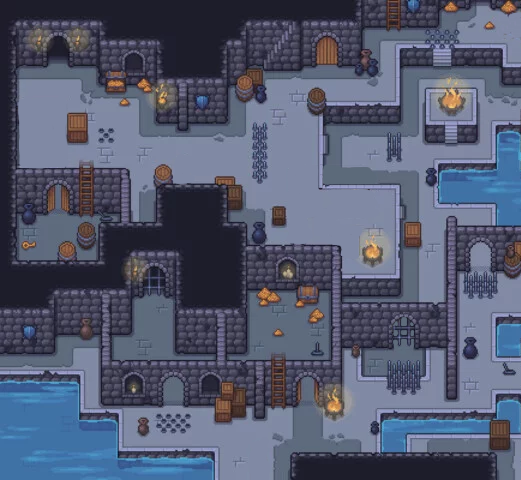
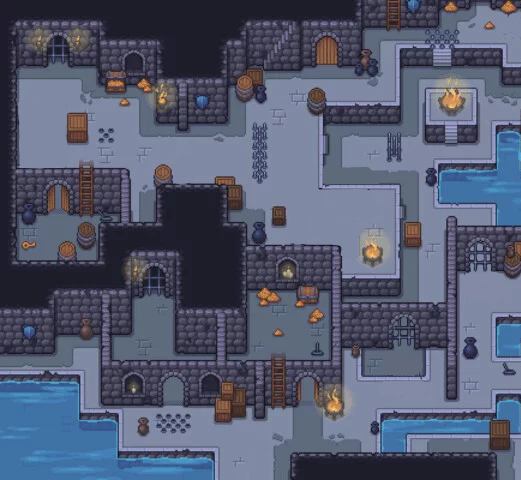
added logic to third dungeon

Changed region(s): [[0.8906, 0.5, 0.952, 0.625], [0.737, 0.75, 0.8292, 0.8438], [0.0921, 0.0625, 0.1228, 0.125]]

diff --git a/Game1.cs b/Game1.cs
@@ -20,7 +20,7 @@ namespace Pain_and_Suffering
         private GraphicsDeviceManager _graphics;
         private SpriteBatch _spriteBatch;
 
-        Texture2D characterSpriteSheet, rectangleTexture, dungeonTexture, tunnelTexture, dungeon2Texture;
+        Texture2D characterSpriteSheet, rectangleTexture, dungeonTexture, tunnelTexture, dungeon2Texture, dungeon3Texture;
         List<Rectangle> barriers, barriers2;
 
         KeyboardState keyboardState;
@@ -29,7 +29,7 @@ namespace Pain_and_Suffering
 
         Color buttonColor;
 
-        Rectangle window, playerCollisionRect, playerDrawRect, leverRect, buttonRect, secondButtonRect, lockedDoor;
+        Rectangle window, playerCollisionRect, playerDrawRect, leverRect, buttonRect, secondButtonRect, lockedDoor, exitDoor;
 
         int rows, columns, //number of rows/columns in the spritesheet
             frame, //frame number (column) in the sequence to draw
@@ -163,6 +163,7 @@ namespace Pain_and_Suffering
             dungeonTexture = Content.Load<Texture2D>("dungeon 1");
             tunnelTexture = Content.Load<Texture2D>("dungeon tunnel");
             dungeon2Texture = Content.Load<Texture2D>("dungeon 2");
+            dungeon3Texture = Content.Load<Texture2D>("dungeon 3");        
         }
 
         protected override void Update(GameTime gameTime)
@@ -302,6 +303,43 @@ namespace Pain_and_Suffering
                     screen = Screen.Dungeon3;
             }
 
+            else if (screen == Screen.Dungeon3)
+            {
+                if (time > frameSpeed && playerDirection != Vector2.Zero)
+                {
+                    time = 0f;
+                    frame = (frame + 1) % frames;  // ensures frame is a value 0-8
+                }
+
+                SetPlayerDirection();
+                playerLocation += playerDirection * speed;
+                UpdateRects();
+
+                //Collision detection with window
+                if (!window.Contains(playerCollisionRect))
+                {
+                    playerLocation -= playerDirection * speed;
+                    UpdateRects();
+                }
+
+                //Collision detection with barriers
+                foreach (Rectangle barrier in barriers)
+                    if (barrier.Intersects(playerCollisionRect))
+                    {
+                        playerLocation -= playerDirection * speed;
+                        UpdateRects();
+                    }
+
+                foreach (Rectangle barrier2 in barriers2)
+                    if (barrier2.Intersects(playerCollisionRect))
+                    {
+                        playerLocation -= playerDirection * speed;
+                        UpdateRects();
+                    }
+
+                base.Update(gameTime);
+            }
+
 
         }
 
@@ -340,10 +378,10 @@ namespace Pain_and_Suffering
                     new Rectangle(frame * width, directionRow * height, width, height), Color.White);
 
                 //drawing barriers - will be commented out in final version
-                _spriteBatch.Draw(rectangleTexture, lockedDoor, Color.Green);
+                //_spriteBatch.Draw(rectangleTexture, lockedDoor, Color.Green);
 
-                foreach (Rectangle barrier in barriers)
-                    _spriteBatch.Draw(rectangleTexture, barrier, Color.Black);
+                //foreach (Rectangle barrier in barriers)
+                //    _spriteBatch.Draw(rectangleTexture, barrier, Color.Black);
 
                 //if (leverFlipped)
                 //{
@@ -355,8 +393,8 @@ namespace Pain_and_Suffering
             {
                 _spriteBatch.Draw(dungeon2Texture, window, Color.White);
 
-                foreach (Rectangle barrier2 in barriers2)
-                    _spriteBatch.Draw(rectangleTexture, barrier2, Color.White);
+                //foreach (Rectangle barrier2 in barriers2)
+                //    _spriteBatch.Draw(rectangleTexture, barrier2, Color.White);
 
                 _spriteBatch.Draw(characterSpriteSheet, playerDrawRect,
                     new Rectangle(frame * width, directionRow * height, width, height), Color.White);
@@ -364,7 +402,10 @@ namespace Pain_and_Suffering
 
             else if (screen == Screen.Dungeon3)
             {
-                _spriteBatch.Draw(dungeonTexture, window, Color.White);
+                _spriteBatch.Draw(dungeon3Texture, window, Color.White);
+
+                _spriteBatch.Draw(characterSpriteSheet, playerDrawRect,
+                    new Rectangle(frame * width, directionRow * height, width, height), Color.White);
             }
 
             _spriteBatch.End();
